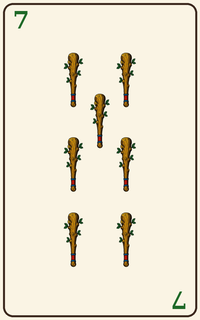
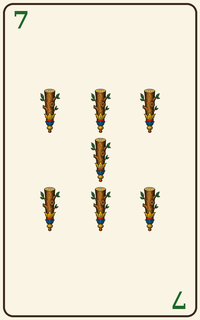
Cards: the illustrated deck complete, 45 of 45
The 7 of clubs, the last picture. ElevenLabs drew it twice off-model (5
clubs, then 6); the face is composed from one club of the second take,
scaled 0.75 and set three, one, three on the cream, as the suit's other
cards are. The manifest marks it done with a note saying how it was
made; tools/make_cards.py rebuilt ec37 and ed37. TODO says the deck is
complete.

diff --git a/TODO.md b/TODO.md
@@ -2203,8 +2203,11 @@ not in memory waits.
   (fire, smoke, the pieces thrown off the table; blast.ogg from ElevenLabs,
   blast/smoke.gltf from tools/make_chess_models.py). Not yet played through
   by hand; the sound not heard (Xephyr has no audio checked).
-- Cards: the illustrated deck has 30 of 45 pictures to draw
-  (`tools/elevenlabs_deck.json`).
+- Cards: the illustrated deck is COMPLETE, 45 of 45 (2026-11-07,
+  `tools/elevenlabs_deck.json`). The 7 of clubs came out twice with 5 and
+  then 6 clubs; its picture is composed from one club of the second take,
+  scaled 0.75, set 3-1-3 on the cream (the manifest's note says so). A
+  card is drawn again only if one is turned down.
 - Cards held in hand (2026-10-12): seated, the body goes to its seat and plays
   the robot's `cards` clip for everybody (core.player_clip, protocol 92); the
   view is the eye with the cursor free (core.fixed_view under 0.1 draws the
